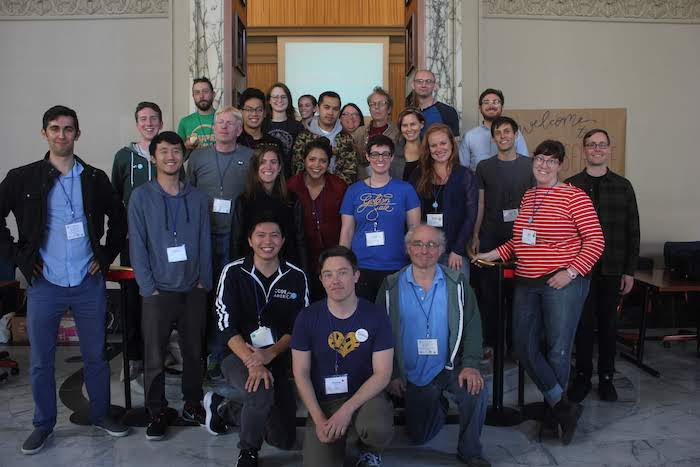
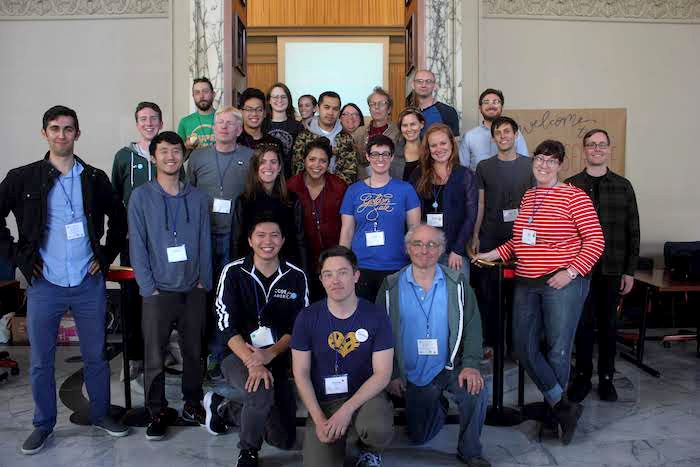
minor updates to home page
Minor text corrections; replaced hack night image with one from a virtual hack night.

diff --git a/src/index.md b/src/index.md
@@ -24,7 +24,7 @@ title: We are OpenOakland
   <div class="card home__event-card">
     <div class="row no-gutters">
       <div class="col-md-4">
-        <img class="card-img" src="/assets/images/DMVStrikeTeam.jpg" alt="OpenOakland members performing a user test of a government website." />
+        <img class="card-img" src="/assets/images/Zoom-Group_Photo-2020-04-14.jpg" alt="OpenOakland members at a virtual hack night." />
       </div>
       <div class="col-md-8">
         <div class="card-body">
@@ -49,11 +49,11 @@ title: We are OpenOakland
   </div>
 
   <p>
-  All OpenOakland meetings are open the public, regardless of technical ability.
+  All OpenOakland meetings are open to the public, regardless of technical ability.
   </p>
 
   <p>
-  We hope you'll join us! If you can't make this event, <a href="https://meetup.com/{{ event.group.urlname}}" target="_blank">check our Meetup group for our future events</a>. You'll find us most Tuesdays nights at Oakland City Hall in Hearing Room 4. Food is provided.
+  We hope you'll join us! If you can't make this event, <a href="https://www.meetup.com/OpenOakland{{ event.group.urlname}}" target="_blank">check our Meetup group for our future events</a>. You'll find us every Tuesday night on Zoom at .
   </p>
 
 </section>
@@ -64,7 +64,7 @@ title: We are OpenOakland
   </div>
 
   <div class="col-8">
-    <p>OpenOakland members primarily use Slack for all communication. You can get an invite to join our slack <a href="http://slack.openoakland.org/">here</a>.</p>
+    <p>OpenOakland members primarily use Slack for all communication. You can join our slack <a href="http://slack.openoakland.org/">here</a>.</p>
   </div>
 
   <div class="col-4">
